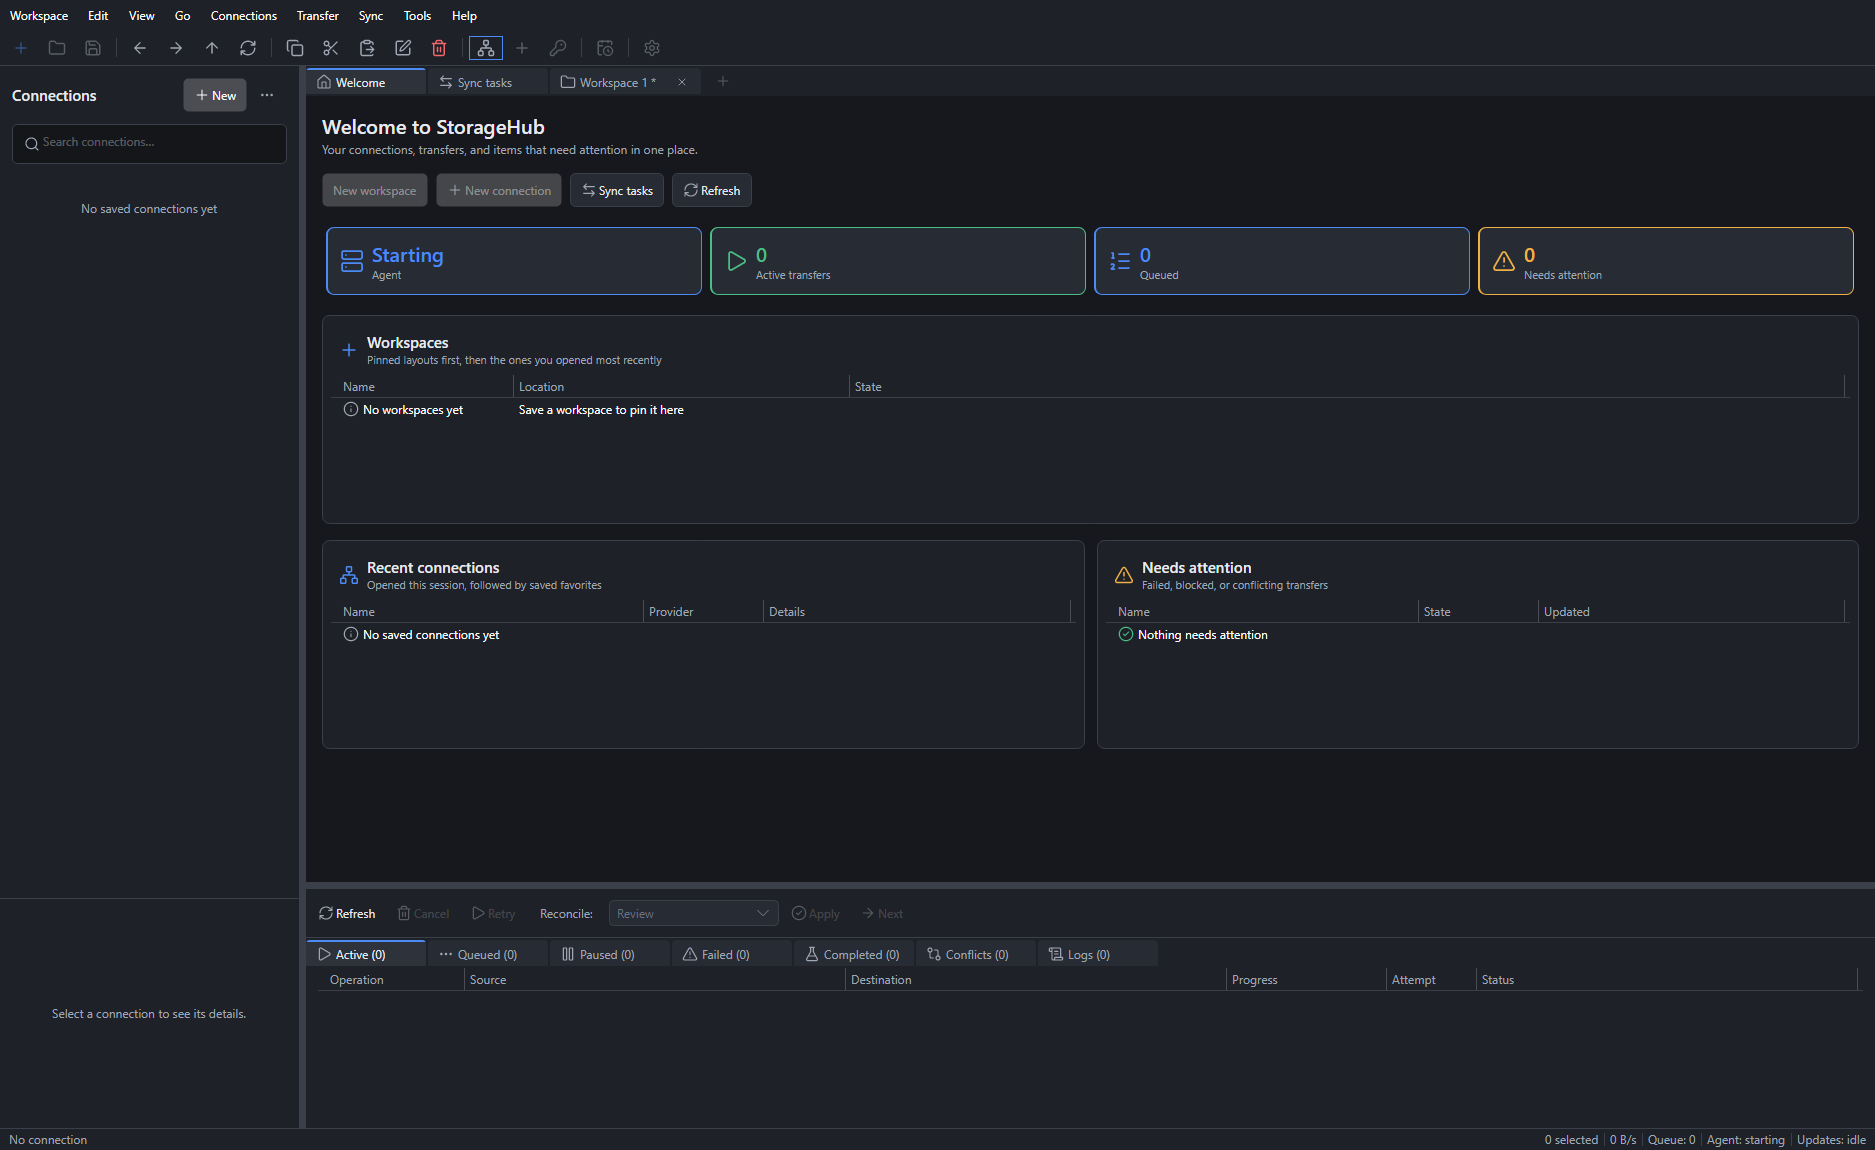
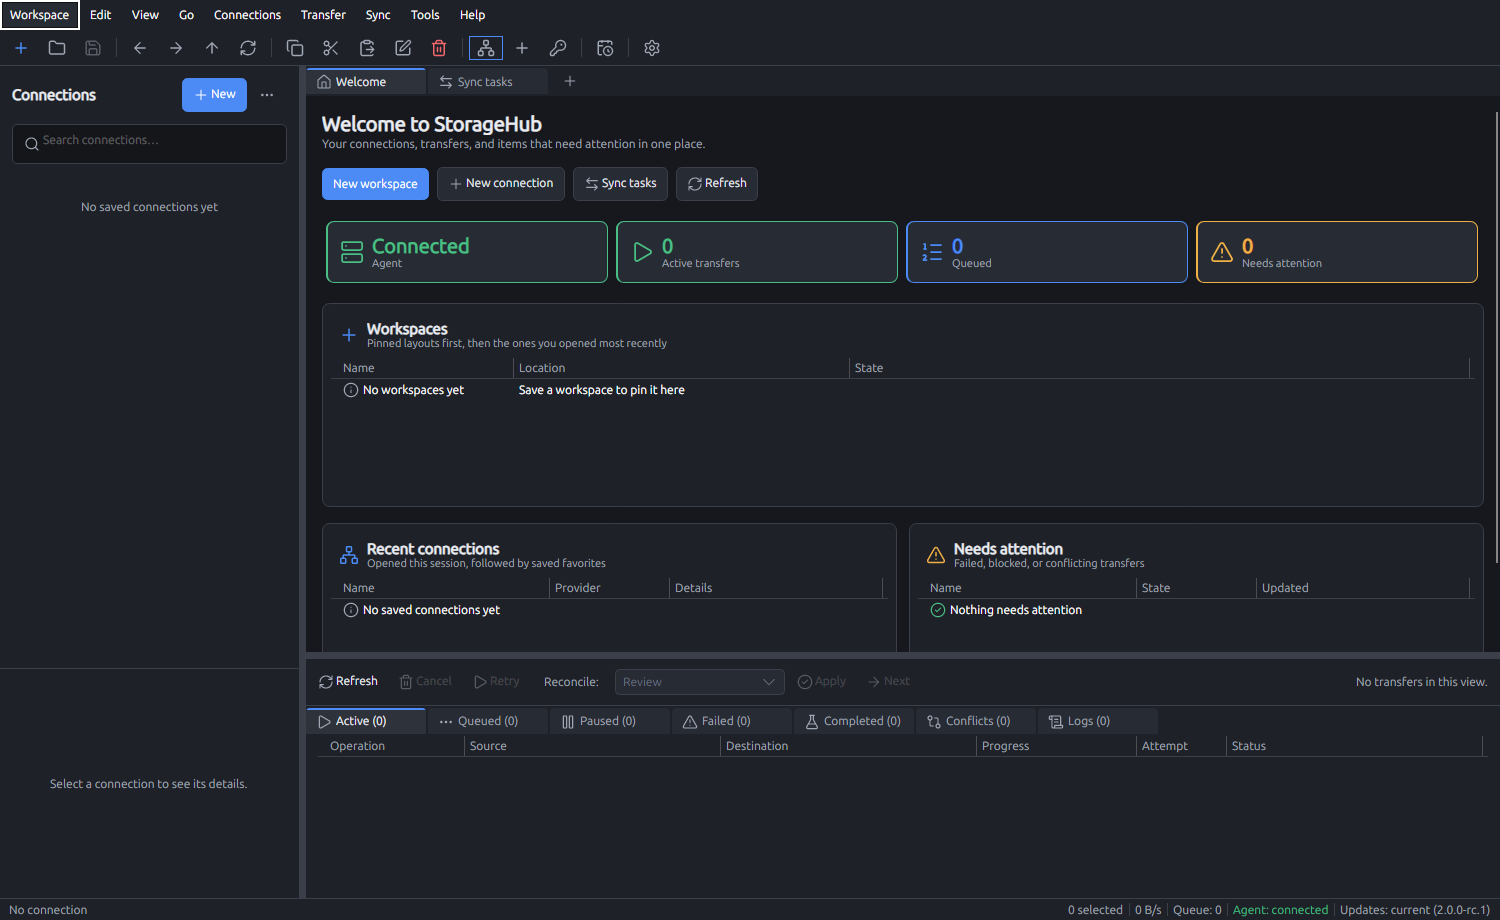
Show the Welcome page with its agent connected, taken from the installed .deb, rather than a headless shot still starting

diff --git a/README.md b/README.md
@@ -33,7 +33,7 @@ a provider-neutral contract.
 
 <table>
   <tr>
-    <td width="50%"><a href="docs/screenshots/welcome.png"><img src="docs/screenshots/welcome.png" alt="The Welcome page in the dark theme on Windows: agent status, transfer counters, saved workspaces, recent connections and anything that needs attention"></a></td>
+    <td width="50%"><a href="docs/screenshots/welcome.png"><img src="docs/screenshots/welcome.png" alt="The Welcome page in the dark theme on Linux, installed from the .deb: agent connected, transfer counters, saved workspaces, recent connections and anything that needs attention"></a></td>
     <td width="50%"><a href="docs/screenshots/workspace.png"><img src="docs/screenshots/workspace.png" alt="A two-pane workspace: This PC's drives and folder tree on the left, an SSH terminal session on the right, with the transfer queue below"></a></td>
   </tr>
   <tr>

diff --git a/docs/screenshots/README.md b/docs/screenshots/README.md
@@ -20,7 +20,7 @@ the application was laid out against.
 
 | File | Test output | Shows |
 | --- | --- | --- |
-| `welcome.png` | `shell-windows-dark-1.25x.png` | Welcome, dark, on Windows |
+| `welcome.png` | the installed .deb under WSLg, grabbed with `import -window` | Welcome, dark, on Linux, agent connected |
 | `welcome-linux-light.png` | `shell-linux-light-1.25x.png` | Welcome, light, on Linux |
 | `workspace.png` | `workspace-terminal-dark.png` | A two-pane workspace: This PC beside an SSH terminal |
 | `settings-appearance.png` | `settings-appearance-light.png` | Settings, Appearance page, light |
